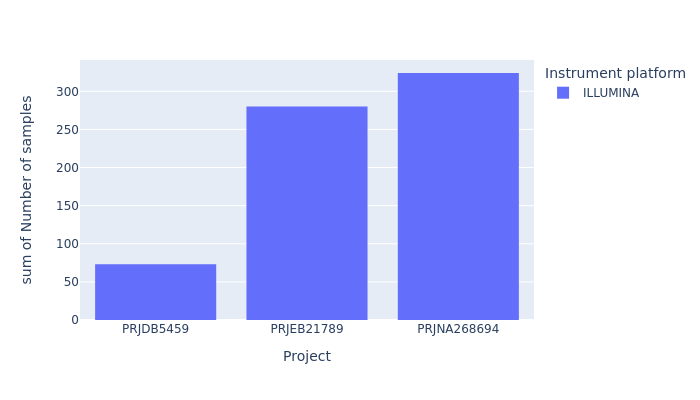
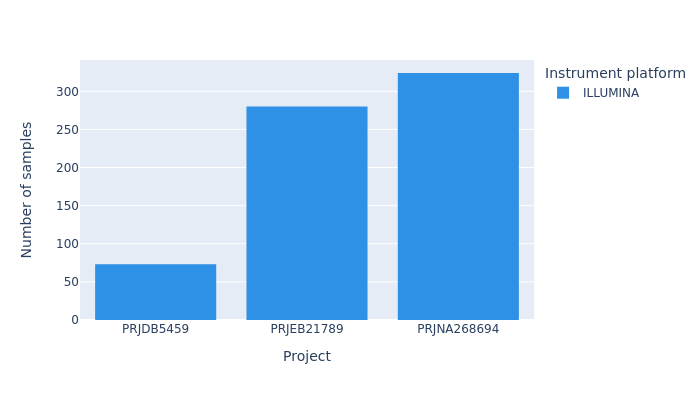
sara

diff --git a/report_generation_module.py b/report_generation_module.py
@@ -144,16 +144,16 @@ def IDs_number(e_df):
     print('Number of projects:', IDs_number)
     return IDs_number
 
+
 def sample_number(user_session, e_df):
     sample_number_series = e_df.groupby(['study_accession'])['run_accession'].count()
     sample_number_df = pd.DataFrame(sample_number_series).reset_index()
     sample_number_df.columns = ['Project', 'Number of samples']
-    fig = px.bar(sample_number_df, x="Project", y="Number of samples") #non va colore...
+    fig = px.bar(sample_number_df, x="Project", y="Number of samples", color_discrete_sequence=px.colors.qualitative.Dark24).update_layout(yaxis_title="Number of samples") 
     fig.write_image(os.path.join(user_session, "sample_number.png"))
 
 
 def IDs_dates(user_session, e_df):
-    
     cols = ['first_public', 'last_updated']
     if pd.Series(['first_public', 'last_updated']).isin(e_df.columns).all():
         e_df['first_public'] = pd.to_datetime(e_df['first_public'],  errors='coerce', infer_datetime_format=True) #convert into datatyoe
@@ -164,12 +164,10 @@ def IDs_dates(user_session, e_df):
         collapsed_e_df = collapsed_e_df.sort_values(by=['first_public_year'], ascending=True)
         collapsed_e_df_f = collapsed_e_df[['study_accession', 'first_public_year']]
         collapsed_e_df_l = collapsed_e_df[['study_accession', 'last_updated_year']]
-        # collapsed_e_dict_f = collapsed_e_df_f.set_index('study_accession')['first_public_year'].to_dict() #convert into dictionary
-        # collapsed_e_dict_l = collapsed_e_df_l.set_index('study_accession')['last_updated_year'].to_dict()
-        collapsed_e_list_f_y = collapsed_e_df_f.study_accession.values.tolist()
-        collapsed_e_list_f_x = collapsed_e_df_f.first_public_year.values.tolist()
-        collapsed_e_list_l_y = collapsed_e_df_l.study_accession.values.tolist()
-        collapsed_e_list_l_x = collapsed_e_df_l.last_updated_year.values.tolist()
+        collapsed_e_list_f_x = collapsed_e_df_f.study_accession.values.tolist()
+        collapsed_e_list_f_y = collapsed_e_df_f.first_public_year.values.tolist()
+        collapsed_e_list_l_x = collapsed_e_df_l.study_accession.values.tolist()
+        collapsed_e_list_l_y = collapsed_e_df_l.last_updated_year.values.tolist()
 
         
         fig = go.Figure()
@@ -191,7 +189,8 @@ def IDs_dates(user_session, e_df):
 
         fig.update_layout(title="Years of first and last update",
                         xaxis_title="Year",
-                        yaxis_title="Projects")
+                        yaxis_title="Projects",
+                        barmode='group')##########
 
         fig.write_image(os.path.join(user_session, "years_update.png"))
 
@@ -217,7 +216,7 @@ def scientific_name_pie(user_session, e_df):
         scientific_name_df = e_df['scientific_name'].value_counts()
         df = pd.DataFrame(scientific_name_df).reset_index()
         df.columns = ['Scientific name', 'Counts']
-        fig = px.pie(df, values='Counts', names='Scientific name', color_discrete_sequence=px.colors.sequential.RdBu)
+        fig = px.pie(df, values='Counts', names='Scientific name', color_discrete_sequence=px.colors.qualitative.D3)
         fig.write_image(os.path.join(user_session, "scientific_name_pie.png"))
     else:
         pass
@@ -230,9 +229,8 @@ def scientific_name_bar(user_session, e_df):
         df_bar = scientific_name_IDs_df.rename('count').reset_index()
         df_bar.columns = ['Project', 'Scientific name', 'Counts']
         fig = px.histogram(df_bar, x="Project", y="Counts",
-                color='Scientific name',
-                labels={'Counts':'Number of samples'},
-                height=400)
+                color='Scientific name', color_discrete_sequence=px.colors.qualitative.D3, 
+                height=400).update_layout(yaxis_title="Number of samples")
         fig.write_image(os.path.join(user_session, "scientific_name_bar.png"))
     else:
         pass
@@ -244,7 +242,7 @@ def library_source(user_session, e_df):
         library_source_df = e_df['library_source'].value_counts()
         df = pd.DataFrame(library_source_df).reset_index()
         df.columns = ['Library source', 'Counts']
-        fig = px.pie(df, values='Counts', names='Library source', color_discrete_sequence=px.colors.sequential.RdBu)
+        fig = px.pie(df, values='Counts', names='Library source', color_discrete_sequence=px.colors.qualitative.D3)
         fig.write_image(os.path.join(user_session, "library_source_pie.png"))
     else:
         pass
@@ -258,8 +256,8 @@ def library_source_bar(user_session, e_df):
         df_bar.columns = ['Project', 'Library source', 'Counts']
         fig = px.histogram(df_bar, x="Project", y="Counts",
                 color='Library source',
-                labels={'Counts':'Number of samples'},
-                height=400)
+                color_discrete_sequence=px.colors.qualitative.D3,
+                height=400).update_layout(yaxis_title="Number of samples")
         fig.write_image(os.path.join(user_session, "library_source_bar.png"))
     else:
         pass
@@ -271,7 +269,7 @@ def library_strategy_pie(user_session, e_df):
         library_strategy_df = e_df['library_strategy'].value_counts()
         df = pd.DataFrame(library_strategy_df).reset_index()
         df.columns = ['Library strategy', 'Counts']
-        fig = px.pie(df, values='Counts', names='Library strategy', color_discrete_sequence=px.colors.sequential.RdBu)
+        fig = px.pie(df, values='Counts', names='Library strategy', color_discrete_sequence=px.colors.qualitative.D3)
         fig.write_image(os.path.join(user_session, "library_strategy_pie.png"))
     else:
         pass
@@ -285,8 +283,8 @@ def library_strategy_bar(user_session, e_df):
         df_bar.columns = ['Project', 'Library strategy', 'Counts']
         fig = px.histogram(df_bar, x="Project", y="Counts",
                 color='Library strategy',
-                labels={'Counts':'Number of samples'},
-                height=400)
+                color_discrete_sequence=px.colors.qualitative.D3,
+                height=400).update_layout(yaxis_title="Number of samples")
         fig.write_image(os.path.join(user_session, "library_strategy_bar.png"))
     else:
         pass
@@ -298,7 +296,7 @@ def instrument_platform_pie(user_session, e_df):
         instrument_platform_df = e_df['instrument_platform'].value_counts()
         df = pd.DataFrame(instrument_platform_df).reset_index()
         df.columns = ['Instrument platform', 'Counts']
-        fig = px.pie(df, values='Counts', names='Instrument platform', color_discrete_sequence=px.colors.sequential.RdBu)
+        fig = px.pie(df, values='Counts', names='Instrument platform', color_discrete_sequence=px.colors.qualitative.D3)
         fig.write_image(os.path.join(user_session, "instrument_platform_pie.png"))
     else:
         pass
@@ -312,8 +310,8 @@ def instrument_platform_bar(user_session, e_df):
         df_bar.columns = ['Project', 'Instrument platform', 'Counts']
         fig = px.histogram(df_bar, x="Project", y="Counts",
                 color='Instrument platform',
-                labels={'Counts':'Number of samples'},
-                height=400)
+                color_discrete_sequence=px.colors.qualitative.Dark24,
+                height=400).update_layout(yaxis_title="Number of samples")
         fig.write_image(os.path.join(user_session, "instrument_platform_bar.png"))
     else:
         pass
@@ -325,7 +323,7 @@ def library_layout_pie(user_session, e_df):
         library_layout_df = e_df['library_layout'].value_counts()
         df = pd.DataFrame(library_layout_df).reset_index()
         df.columns = ['Library layout', 'Counts']
-        fig = px.pie(df, values='Counts', names='Library layout', color_discrete_sequence=px.colors.sequential.RdBu)
+        fig = px.pie(df, values='Counts', names='Library layout', color_discrete_sequence=px.colors.qualitative.Dark24)
         fig.write_image(os.path.join(user_session, "library_layout_pie.png"))
     else:
         pass
@@ -339,32 +337,18 @@ def library_layout_bar(user_session, e_df):
         df_bar.columns = ['Project', 'Library layout', 'Counts']
         fig = px.histogram(df_bar, x="Project", y="Counts",
                 color='Library layout',
-                labels={'Counts':'Number of samples'},
-                height=400)
+                color_discrete_sequence=px.colors.qualitative.Dark24,
+                height=400).update_layout(yaxis_title="Number of samples")
         fig.write_image(os.path.join(user_session, "library_layout_bar.png"))
     else:
         pass
 
 #WORLD MAP 
-# def findGeocode(country):
-#     geolocator = Nominatim(user_agent="your_app_name")
-#     try:
-#         # Geolocate the center of the country
-#         loc = geolocator.geocode(country)
-#         # And return latitude and longitude
-#         return geolocator.geocode(country)
-    
-#     except GeocoderTimedOut:
-#         # Return missing value
-#         return findGeocode(country) 
-
 def alpha3code(column):
         CODE=[]
         for country in column:
             try:
                 code=pycountry.countries.get(name=country).alpha_3
-            # .alpha_3 means 3-letter country code 
-            # .alpha_2 means 2-letter country code
                 CODE.append(code)
             except:
                 CODE.append('None')
@@ -374,7 +358,6 @@ def geography(user_session, e_df, p_df):
 
     country_list = []
     affiliation_list = p_df['affiliation'].tolist()
-    #print(affiliation_list)
     for affiliation in affiliation_list:
         for country in pycountry.countries:
             if country.name in affiliation:
@@ -393,126 +376,33 @@ def geography(user_session, e_df, p_df):
 
     country_df['CODE']=alpha3code(country_df.country) #iso_3
 
-    fig = px.scatter_geo(country_df, locations="CODE",
-                     hover_name="country", size="count",
-                     projection="natural earth")
-    fig.write_image(os.path.join(user_session, "world_map.png"))
-    
-
-    
-
-
-
-    # world = gpd.read_file(gpd.datasets.get_path('naturalearth_lowres'))
-    # world.columns=['pop_est', 'continent', 'name', 'CODE', 'gdp_md_est', 'geometry']
-    # merge=pd.merge(world,country_df,on='CODE')
-
-    # merge.plot(column='country', scheme="quantiles",
-    #        figsize=(25, 20),
-    #        legend=True,cmap='coolwarm')
-    # plt.title('2020 Jan-May Confirmed Case Amount in Different Countries',fontsize=25)
-    # # # add countries names and numbers 
-    # # for i in range(0,10):
-    # #     plt.text(float(merge.longitude[i]),float(merge.latitude[i]),"{}\n{}".format(merge.name[i],merge.Confirmed_Cases[i]),size=10)
-    # # plt.show()
-    # plt.write_image(os.path.join(user_session, "world_map.png"))
-
-    
-    # create a column for code 
-    
-    
-
-
-
-
-
-    
-
-    #country_df['iso_alpha'] = codes
-    
-
-    # df = px.data.gapminder().query("year == 2007")
-    # print(df)
-
-    # fig = px.scatter_geo(country_df, locations="country",
-    #     color="count", # which column to use to set the color of markers
-    #     #hover_name="country", # column added to hover information
-    #     size="count", # size of markers
-    #     projection="natural earth")
-
+    # fig = px.scatter_geo(country_df, locations="CODE",
+    #                  hover_name="country", size="count",
+    #                  projection="natural earth")
     # fig.write_image(os.path.join(user_session, "world_map.png"))
-    
 
 
-    # print(country_df)            
-    # longitude = []
-    # latitude = []
+    fig = go.Figure(data=go.Scattergeo(
+        locationmode = 'ISO-3',
+        locations = country_df['CODE'],
+        mode = 'markers',
+        marker_color = country_df['count'],
+        ))
 
-    # for country in (country_df["country"]):
-    #     if findGeocode(country) != None:
-    #         loc = findGeocode(country)
-            
-    #         # coordinates returned from 
-    #         # function is stored into
-    #         # two separate list
-    #         latitude.append(loc.latitude)
-    #         longitude.append(loc.longitude)
-       
-    #     # if coordinate for a city not
-    #     # found, insert "NaN" indicating 
-    #     # missing value 
-    #     else:
-    #         latitude.append(np.nan)
-    #         longitude.append(np.nan)
+    fig.update_layout(
+        title = 'Most trafficked US airports<br>(Hover for airport names)',
+        geo_scope='world',
+        showlegend = True,
+        paper_bgcolor='#E90555',
+        plot_bgcolor='#00798C'
+        
+    )
 
-    # country_df["Longitude"] = longitude
-    # country_df["Latitude"] = latitude
-    
-    # print(country_df)
+    fig.update_geos(showcoastlines=True, coastlinecolor="#E1F4FF",
+        showocean=False, 
+        showland=True, landcolor="#6794DC")
 
-
-
-
-
-    #limits = [(0,2),(3,10),(11,20),(21,50),(50,3000)]
-#     colors = ["royalblue","crimson","lightseagreen","orange","lightgrey"]
-#     cities = []
-#     scale = 5000
-
-#     fig = go.Figure()
-
-#     # for i in range(len(country_list_unique)):
-#     #     lim = country_list[i]
-#     #     #country_df_df_sub = country_df[lim[0]:lim[1]]
-#     fig.add_trace(go.Scattergeo(
-#         locations = country_df['country'],
-#         locationmode = 'country names',
-#             # lon = df_sub['lon'],
-#             # lat = df_sub['lat'],
-#             # text = df_sub['text'],
-#         marker = dict(
-#             size = country_df['count'],
-#             color = country_df['count'],
-#             line_color='rgb(40,40,40)',
-#             line_width=0.5,
-#             sizemode = 'area'
-#             )))
-
-#     fig.update_layout(
-#             title_text = 'Number of publication',
-#             showlegend = True,
-#             geo = dict(
-#                 scope = 'world',
-#                 landcolor = 'rgb(217, 217, 217)',
-#             )
-#         )
-#     fig.write_image(os.path.join(user_session, "world_map.png"))
-# # #fig.show()
-
-    
-
-
-
+    fig.write_image(os.path.join(user_session, "world_map.png"))
 
 #PROJECT SIZE & BYTES
 def projects_bytes(user_session, e_df):
@@ -534,7 +424,7 @@ def projects_bytes(user_session, e_df):
     file_name = os.path.join(user_session,'Project_size&bytes.xlsx')
     df.to_excel(file_name)
 
-    fig = px.histogram(df, x="Project", y="Bytes")
+    fig = px.histogram(df, x="Project", y="Bytes", color_discrete_sequence=px.colors.qualitative.D3).update_layout(yaxis_title="Number of samples")
     fig.write_image(os.path.join(user_session, "projects_size&bytes_bar.png"))
 
 
